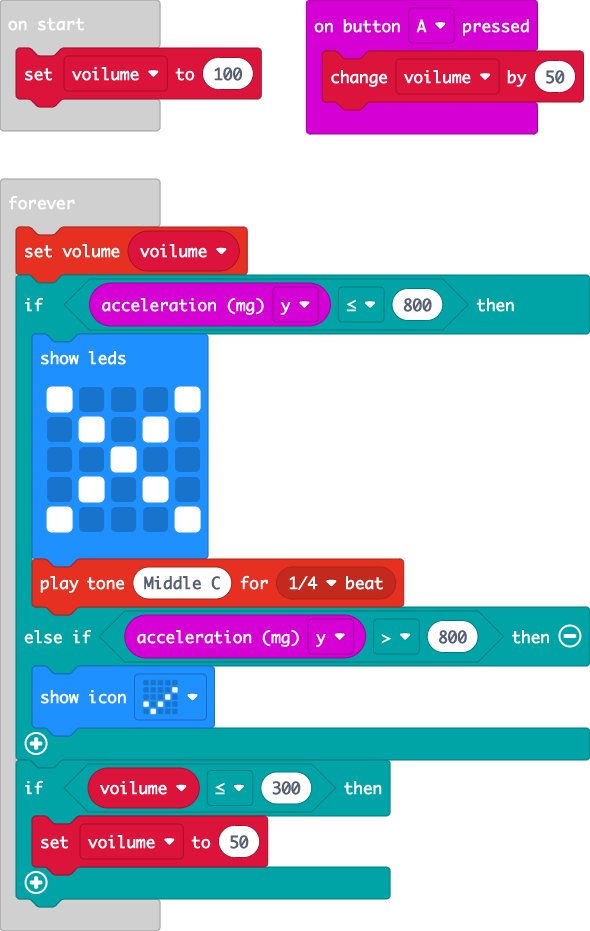
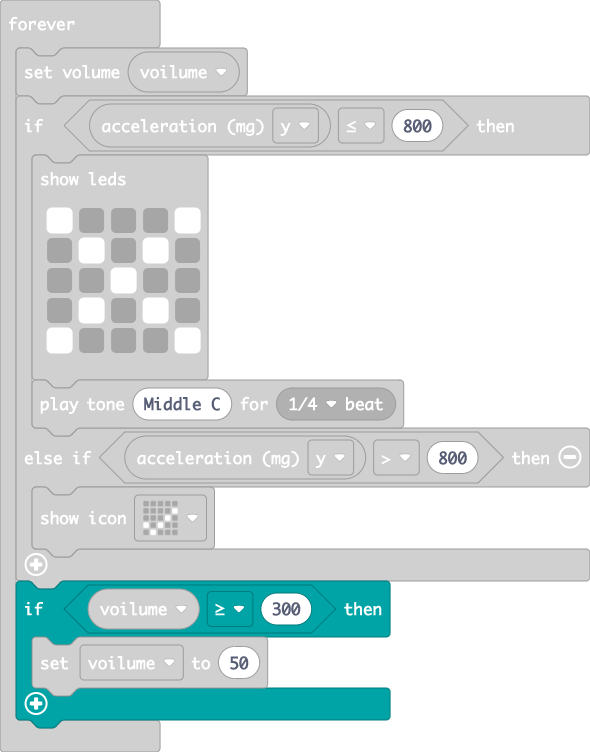
Update main.blocks, main.ts

diff --git a/main.ts b/main.ts
@@ -16,7 +16,7 @@ basic.forever(function () {
     } else if (input.acceleration(Dimension.Y) > 800) {
         basic.showIcon(IconNames.Yes)
     }
-    if (voilume <= 300) {
+    if (voilume >= 300) {
         voilume = 50
     }
 })
